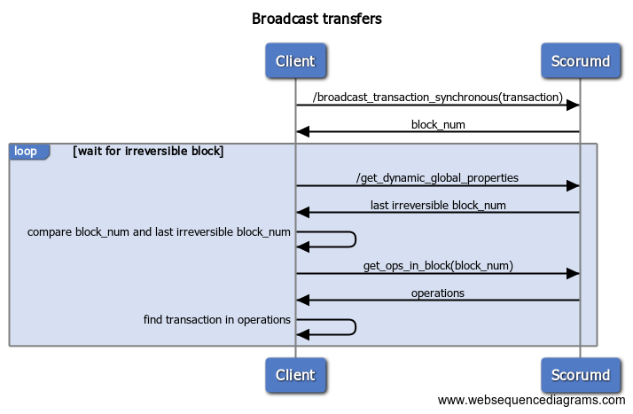
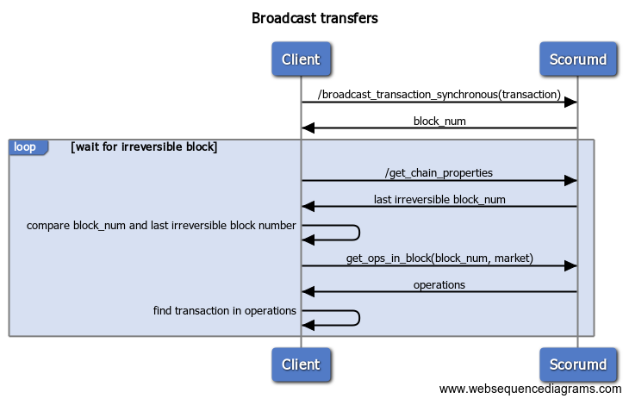
get_chain properties, get_account_scr_to_scr_transfers

diff --git a/examples/deposits/main.go b/examples/deposits/main.go
@@ -13,7 +13,7 @@ import (
 	"github.com/scorum/scorum-go"
 	"github.com/scorum/scorum-go/apis/account_history"
 	"github.com/scorum/scorum-go/apis/blockchain_history"
-	"github.com/scorum/scorum-go/apis/database"
+	"github.com/scorum/scorum-go/apis/chain"
 	"github.com/scorum/scorum-go/sign"
 	"github.com/scorum/scorum-go/transport/http"
 	"github.com/scorum/scorum-go/types"
@@ -25,8 +25,6 @@ const (
 	paymentAccount = "roselle"
 	paymentWIF     = "5JwWJ2m2jGG9RPcpDix5AvkDzQZJoZvpUQScsDzzXWAKMs8Q6jH"
 )
-
-var chain = sign.TestChain
 
 var (
 	// deposits indexed with their ids
@@ -76,17 +74,17 @@ func main() {
 func Monitor() {
 	for {
 		var recentSeq uint32
-		var prop *database.DynamicGlobalProperties
+		var prop *chain.ChainProperties
 
 		// passing -1 returns most recent history item
-		recent, err := client.AccountHistory.GetAccountHistory(paymentAccount, -1, 1)
+		recent, err := client.AccountHistory.GetAccountScrToScrTransfers(paymentAccount, -1, 1)
 		if err != nil {
 			log.Printf("failed to get recent account history: %s\n", err)
 			goto Step
 		}
 
 		// to retrieve LastIrreversibleBlockNum
-		prop, err = client.Database.GetDynamicGlobalProperties()
+		prop, err = client.Chain.GetChainProperties()
 		if err != nil {
 			log.Printf("failed to get dynamic global properties: %s\n", err)
 			goto Step
@@ -100,7 +98,7 @@ func Monitor() {
 		if recentSeq > seq {
 			limit := recentSeq - seq
 			// retrieve transactions created since the last step
-			history, err := client.AccountHistory.GetAccountHistory(paymentAccount, int32(recentSeq), int32(limit))
+			history, err := client.AccountHistory.GetAccountScrToScrTransfers(paymentAccount, int32(recentSeq), int32(limit))
 			if err != nil {
 				log.Printf("failed to get recent account history: %s\n", err)
 				goto Step
@@ -110,15 +108,21 @@ func Monitor() {
 			// sort seq keys
 			keys := sortHistorySeq(history)
 			for _, key := range keys {
-				operations := history[key]
+				historyItem := history[key]
 				// check that the block is irreversible
-				if operations.BlockNumber > prop.LastIrreversibleBlockNum {
-					// if not, stop processing and the preserve sequence number
+				if historyItem.BlockNumber > prop.LastIrreversibleBlockNumber {
+					// if not, stop processing and preserve the sequence number
 					seq = key - 1
 					mutex.Unlock()
 					goto Step
 				}
-				traverseOperations(operations)
+
+				for _, op := range historyItem.Operations {
+					body := op.(*types.TransferOperation)
+					if body.To == paymentAccount {
+						acceptTransfer(seq, historyItem, body)
+					}
+				}
 			}
 			seq = recentSeq
 			mutex.Unlock()
@@ -143,23 +147,7 @@ func sortHistorySeq(history account_history.AccountHistory) []uint32 {
 	return keys
 }
 
-func traverseOperations(trx *types.OperationObject) {
-	for _, op := range trx.Operations {
-		switch body := op.(type) {
-		case *types.TransferOperation:
-			log.Printf("transfer: %+v\n", op)
-			//transfer operation specified for both `in` and `out` transfers,
-			//filter only `in`
-			if body.To == paymentAccount {
-				makeTransfer(seq, trx, body)
-			}
-		default:
-			log.Printf("operation %s: %+v\n", op.Type(), op)
-		}
-	}
-}
-
-func makeTransfer(seq uint32, trx *types.OperationObject, op *types.TransferOperation) {
+func acceptTransfer(seq uint32, trx *types.OperationObject, op *types.TransferOperation) {
 	// transaction memo is a deposit
 	depositID := op.Memo
 	deposit, ok := deposits[depositID]
@@ -225,7 +213,7 @@ func transfer(deposit *Deposit, amount types.Asset) {
 	}
 
 	// broadcast the transfer operation
-	resp, err := client.Broadcast(chain, []string{paymentWIF}, &transferOp)
+	resp, err := client.Broadcast(sign.TestChain, []string{paymentWIF}, &transferOp)
 	if err != nil {
 		log.Printf("failed to transfer %s to %s: %v", amount, deposit, err)
 		revertBalance()
@@ -233,15 +221,15 @@ func transfer(deposit *Deposit, amount types.Asset) {
 	} else {
 		// run a loop to make sure that the transaction is irreversible
 		for {
-			prop, err := client.Database.GetDynamicGlobalProperties()
+			prop, err := client.Chain.GetChainProperties()
 			if err != nil {
 				log.Printf("failed to get dynamic global properties: %s\n", err)
 				goto Step
 			}
 
-			if resp.BlockNum > prop.LastIrreversibleBlockNum {
+			if resp.BlockNum > prop.LastIrreversibleBlockNumber {
 				// get operation in block
-				trx, err := client.BlockchainHistory.GetOperationsInBlock(resp.BlockNum, blockchain_history.AllOp)
+				trx, err := client.BlockchainHistory.GetOperationsInBlock(resp.BlockNum, blockchain_history.MarketOp)
 				if err != nil {
 					log.Printf("failed to get operations in a block %d: %s\n", resp.BlockNum, err)
 					goto Step

diff --git a/client_test.go b/client_test.go
@@ -4,6 +4,7 @@ import (
 	"testing"
 	"time"
 
+	"github.com/davecgh/go-spew/spew"
 	"github.com/scorum/scorum-go/apis/blockchain_history"
 	"github.com/scorum/scorum-go/apis/database"
 	"github.com/scorum/scorum-go/sign"
@@ -53,12 +54,15 @@ func TestGetConfigViaWS(t *testing.T) {
 }
 
 func TestGetChainProperties(t *testing.T) {
-	client := newWebsocketClient(t)
-	defer client.Close()
+	const url = "http://testnet.scorum.com:8005"
+	transport := http.NewTransport(url)
+	client := NewClient(transport)
 
-	props, err := client.Database.GetChainProperties()
+	props, err := client.Chain.GetChainProperties()
 	require.NoError(t, err)
-	require.True(t, props.MaximumBlockSize != 0)
+	require.NotEmpty(t, props.ChainID)
+	require.True(t, props.HeadBlockNumber > 0)
+	require.True(t, props.LastIrreversibleBlockNumber > 0)
 
 	t.Logf("%+v", props)
 }
@@ -124,13 +128,21 @@ func TestGetAccounts(t *testing.T) {
 func TestGetAccountHistory(t *testing.T) {
 	client := newHTTPClient()
 
-	history, err := client.AccountHistory.GetAccountHistory("scorumwitness1", 317, 20)
+	history, err := client.AccountHistory.GetAccountHistory("leonarda", -1, 3)
 	require.NoError(t, err)
 	require.True(t, len(history) > 0)
+	spew.Dump(history)
+}
 
-	for idx, item := range history {
-		t.Logf("%d %v\n", idx, item)
-	}
+func TestGetAccountScrToScrTransfers(t *testing.T) {
+	const url = "http://testnet.scorum.com:8005"
+	transport := http.NewTransport(url)
+	client := NewClient(transport)
+
+	history, err := client.AccountHistory.GetAccountScrToScrTransfers("leonarda", -1, 3)
+	require.NoError(t, err)
+	require.True(t, len(history) > 0)
+	spew.Dump(history)
 }
 
 func TestClient_Broadcast_AccountWitnessVoteOperation(t *testing.T) {
@@ -152,11 +164,10 @@ func TestClient_Broadcast_AccountWitnessVoteOperation(t *testing.T) {
 
 func TestClient_Broadcast_Transfer(t *testing.T) {
 	client := newHTTPClient()
-
 	amount, _ := types.AssetFromString("0.000009 SCR")
 
-	kristie := "5J7FEcpqc1sZ7ZbKx2kVvBHx2oTjWG2wMU2e2FYX85sGA2qu8KT"
-	resp, err := client.Broadcast(sign.TestChain, []string{kristie}, &types.TransferOperation{
+	azucena := "5J7FEcpqc1sZ7ZbKx2kVvBHx2oTjWG2wMU2e2FYX85sGA2qu8KT"
+	resp, err := client.Broadcast(sign.TestChain, []string{azucena}, &types.TransferOperation{
 		From:   "azucena",
 		To:     "leonarda",
 		Amount: *amount,

diff --git a/apis/account_history/api.go b/apis/account_history/api.go
@@ -1,6 +1,8 @@
 package account_history
 
-import "github.com/scorum/scorum-go/caller"
+import (
+	"github.com/scorum/scorum-go/caller"
+)
 
 const APIID = "account_history_api"
 
@@ -16,13 +18,22 @@ func (api *API) call(method string, args []interface{}, reply interface{}) error
 	return api.caller.Call(APIID, method, args, reply)
 }
 
-// Get accounts by the provided names
+// GetAccountHistory returns operations history for the given account
 // Account operations have sequence numbers from 0 to N where N is the most recent operation. This method
 // returns operations in the range [from-limit, from]
 // from - the absolute sequence number, -1 means most recent, limit is the number of operations before from.
 // limit - the maximum number of items that can be queried [1 to 1000], must be less than from
-func (api *API) GetAccountHistory(name string, from, limit int32) (AccountHistory, error) {
+func (api *API) GetAccountHistory(account string, from, limit int32) (AccountHistory, error) {
 	resp := make(AccountHistory, 0)
-	err := api.call("get_account_history", []interface{}{name, from, limit}, &resp)
+	err := api.call("get_account_history", []interface{}{account, from, limit}, &resp)
+	return resp, err
+}
+
+// GetAccountScrToScrTransfers returns transactions history for the given account
+// from - the absolute sequence number, -1 means most recent, limit is the number of operations before from.
+// limit - the maximum number of items that can be queried [1 to 1000], must be less than from
+func (api *API) GetAccountScrToScrTransfers(account string, from, limit int32) (AccountHistory, error) {
+	resp := make(AccountHistory, 0)
+	err := api.call("get_account_scr_to_scr_transfers", []interface{}{account, from, limit}, &resp)
 	return resp, err
 }

diff --git a/apis/chain/data.go b/apis/chain/data.go
@@ -1,0 +1,24 @@
+package chain
+
+import "github.com/scorum/scorum-go/types"
+
+type ChainProperties struct {
+	AverageBlockSize            uint32               `json:"average_block_size"`
+	CurrentReserveRatio         uint32               `json:"current_reserve_ratio"`
+	MaxVirtualBandwidth         string               `json:"max_virtual_bandwidth"`
+	ChainID                     string               `json:"chain_id"`
+	HeadBlockID                 string               `json:"head_block_id"`
+	HeadBlockNumber             uint32               `json:"head_block_number"`
+	LastIrreversibleBlockNumber uint32               `json:"last_irreversible_block_number"`
+	CurrentAslot                uint32               `json:"current_aslot"`
+	Time                        types.Time           `json:"time"`
+	CurrentWitness              string               `json:"current_witness"`
+	MedianChainProperies        MediaChainProperties `json:"median_chain_props"`
+	MajorityVersion             string               `json:"majority_version"`
+	HFVersion                   string               `json:"hf_version"`
+}
+
+type MediaChainProperties struct {
+	AccountCreationFee types.Asset `json:"account_creation_fee"`
+	MaximumBlockSize   uint32      `json:"maximum_block_size"`
+}

diff --git a/client.go b/client.go
@@ -6,6 +6,7 @@ import (
 	"github.com/pkg/errors"
 	"github.com/scorum/scorum-go/apis/account_history"
 	"github.com/scorum/scorum-go/apis/blockchain_history"
+	"github.com/scorum/scorum-go/apis/chain"
 	"github.com/scorum/scorum-go/apis/database"
 	"github.com/scorum/scorum-go/apis/network_broadcast"
 	"github.com/scorum/scorum-go/caller"
@@ -31,12 +32,16 @@ type Client struct {
 
 	// BlockchainHistory represents blockchain_history_api
 	BlockchainHistory *blockchain_history.API
+
+	// Chain represents chain_api
+	Chain *chain.API
 }
 
 // NewClient creates a new RPC client that use the given CallCloser internally.
 func NewClient(cc caller.CallCloser) *Client {
 	client := &Client{cc: cc}
 	client.Database = database.NewAPI(client.cc)
+	client.Chain = chain.NewAPI(client.cc)
 	client.AccountHistory = account_history.NewAPI(client.cc)
 	client.NetworkBroadcast = network_broadcast.NewAPI(client.cc)
 	client.BlockchainHistory = blockchain_history.NewAPI(client.cc)

diff --git a/apis/chain/api.go b/apis/chain/api.go
@@ -1,0 +1,26 @@
+package chain
+
+import (
+	"github.com/scorum/scorum-go/caller"
+)
+
+const APIID = "chain_api"
+
+type API struct {
+	caller caller.Caller
+}
+
+func NewAPI(caller caller.Caller) *API {
+	return &API{caller}
+}
+
+func (api *API) call(method string, args []interface{}, reply interface{}) error {
+	return api.caller.Call(APIID, method, args, reply)
+}
+
+// Get chain properties
+func (api *API) GetChainProperties() (*ChainProperties, error) {
+	var resp ChainProperties
+	err := api.call("get_chain_properties", caller.EmptyParams, &resp)
+	return &resp, err
+}

diff --git a/apis/database/api.go b/apis/database/api.go
@@ -30,13 +30,6 @@ func (api *API) GetConfig() (*Config, error) {
 	return &config, err
 }
 
-// Get chain properties
-func (api *API) GetChainProperties() (*ChainProperties, error) {
-	var resp ChainProperties
-	err := api.call("get_chain_properties", caller.EmptyParams, &resp)
-	return &resp, err
-}
-
 func (api *API) GetDynamicGlobalProperties() (*DynamicGlobalProperties, error) {
 	var resp DynamicGlobalProperties
 	err := api.call("get_dynamic_global_properties", caller.EmptyParams, &resp)

diff --git a/apis/database/data.go b/apis/database/data.go
@@ -210,11 +210,6 @@ type Account struct {
 	GuestBloggers             []json.RawMessage `json:"guest_bloggers"`
 }
 
-type ChainProperties struct {
-	MaximumBlockSize   int32  `json:"maximum_block_size"`
-	AccountCreationFee string `json:"account_creation_fee"`
-}
-
 type Block struct {
 	Previous              string              `json:"previous"`
 	BlockID               string              `json:"block_id"`
